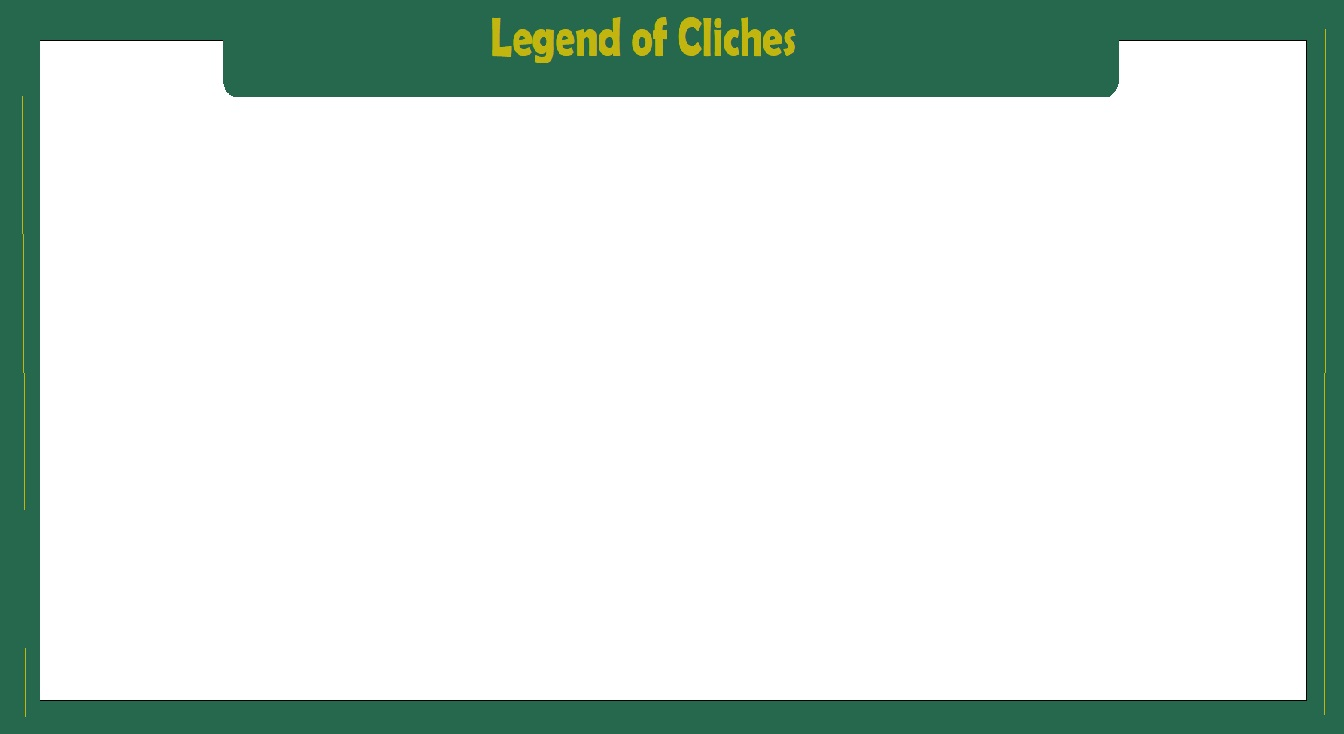
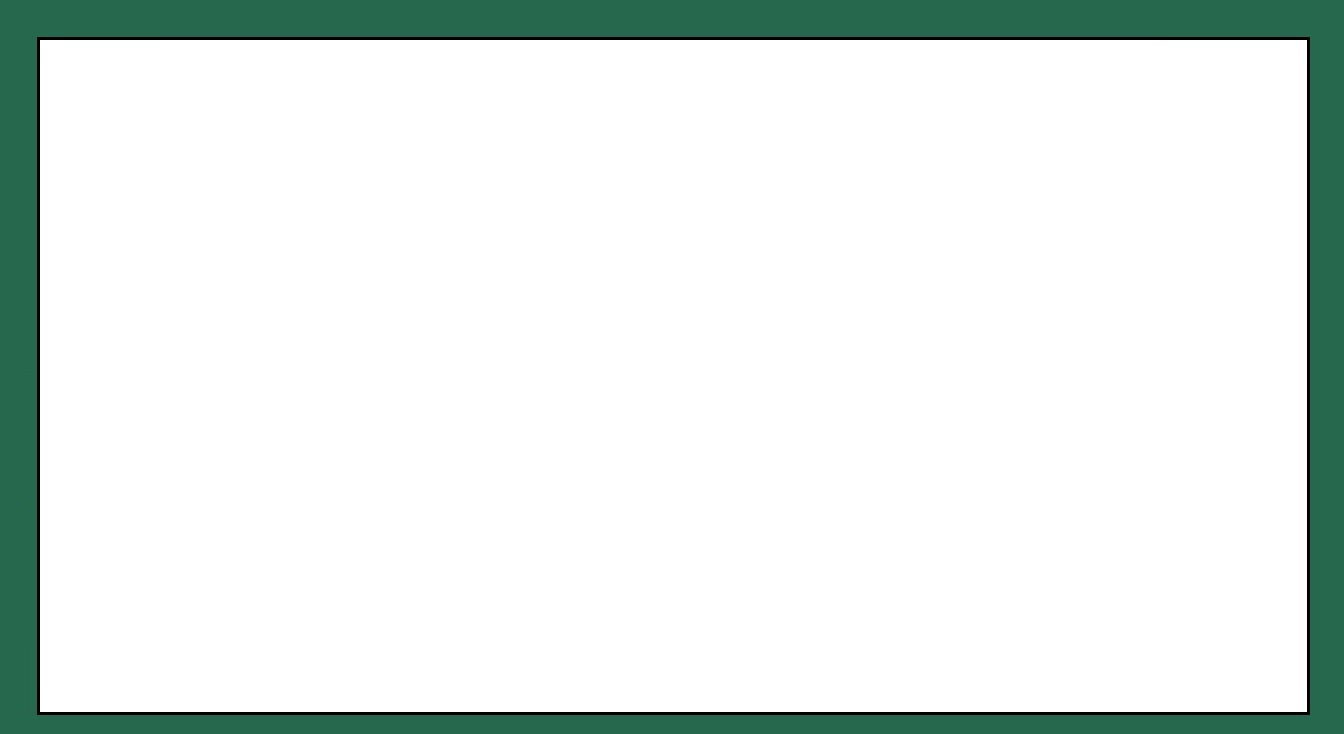
Backend added, Class Selection Process begna for when New Journey is chosen from the Welcome Menu

Changed region(s): [[0.0312, 0.0, 0.9688, 0.1499], [0.0, 0.0599, 1.0, 0.9891], [0.0, 0.1199, 0.0312, 0.6894]]

diff --git a/src/reducers/functional_reducer.js b/src/reducers/functional_reducer.js
@@ -4,8 +4,10 @@ export default function manageFunctions(state ={
 
     inWelcome: true,            // True at first. This is what tells App to render the Welcome.js component
     inLogin: false,             // True if "Resume Journey" is selected from the Welcome.js component 
+    inNew: false,               // True if "New Story" is selected from the Welcome.js component
 
     inGame: false,              // True if a new game is started or a journey is resumed
+    isLoading: false,           // True if the game is currently loading
 
     inGrid: false,              // True if the player is in the game world, not in a fight, inventory, map, or other view
     inMap: false,               // True if the user selected their map
@@ -16,14 +18,19 @@ export default function manageFunctions(state ={
 action){
     switch(action.type){
 
-        // THIS CASE ALSO EXISTS INSIDE OF THE PLAYER REDUCER
-        // {action: "START_NEW_GAME", payload: {player_id: xxxxxx, player: {<object with all player details>}
-        case("START_NEW_GAME") :
-            return {...state, inWelcome: false, inGame: true, player_id: action.payload.player_id}
+        // {type: "LOADING"}
+        case("LOADING"):
+            return {...state, inWelcome: false, inLogin: false, inNew: false, inGame: false, isLoading: true}
 
         // THIS CASE ALSO EXISTS INSIDE OF THE PLAYER REDUCER
-        // {action: "START_NEW_GAME", payload: {player_id: xxxxxx, player: {<object with all player details>}
-        case("LOGIN_TO_GAME")
+        // {type: "START_NEW_GAME", payload: {player_id: xxxxxx, character_selected}
+        case("START_NEW_GAME"):
+            return {...state, inWelcome: false, inNew: true, player_id: action.payload.player_id}
+
+        // THIS CASE ALSO EXISTS INSIDE OF THE PLAYER REDUCER
+        // {type: "START_NEW_GAME", payload: {player_id: xxxxxx, player: {<object with all player details>}
+        case("LOGIN_TO_GAME"):
+            return {...state, inWelcome: false, inGame: true, player_id: action.payload.player_id}
 
 
         default:

diff --git a/src/components/AppJsSplitters/NewGame/ClassCard.js b/src/components/AppJsSplitters/NewGame/ClassCard.js
@@ -1,0 +1,54 @@
+import { connect } from 'react-redux';
+import React, {Component} from 'react';
+import getImage from '../../../helpers/image_helpers/getImage'
+
+
+class ClassCard extends Component {
+
+    constructor(){
+        super()
+        this.setState({
+            upperCardSetting: "Image",      // This will either be set to Image or Stats and will dictate what upperCardRender will return
+        })
+    }
+
+    flipCard = () => {
+        let newWord = "Error"
+        if (this.state.upperCardSetting == "Image"){
+            newWord = "Stats"
+        }
+        else if (this.state.upperCardSetting == "Stats"){
+            newWord = "Image"
+        }
+        this.setState({
+            ...this.state, upperCardSetting: newWord
+        })
+    }
+
+    renderUpperCard = () => {
+        if (this.state.upperCardSetting == "Image"){
+            return(
+                <div id="ClassCardImage">
+                    {/* this will be an image name recieved from the props. This will then be inputted into an Image helper */}
+                    {/* use a getImage value to insert here */}
+                </div>
+            )
+        }
+    }
+
+    render(){
+        return(
+            <div className="Class_Card">
+                {/* This is the top 70% of the card. It will be an image with a name, and when clicked will rotate toa bio and default stats */}
+                <div className="Class_Card_Upper" id="ClassCardImage">
+                    {this.renderUpperCard()}
+                </div>
+                {/* This will be a selection button */}
+                <div className="Class_Card_Bottom">
+
+                </div>
+            </div>
+        )
+    }
+
+}

diff --git a/src/components/AppJsSplitters/Welcome_Or_Login_Or_Game.js b/src/components/AppJsSplitters/Welcome_Or_Login_Or_Game.js
@@ -6,17 +6,44 @@ import GameWindow from '../MainScreen/GameWindow';
 
 
 const mapStateToProps = (state) => {
-
-}
-const mapDispatchToProps = (dispatch) => {
+    return({
+        functions: state.functions
+    })
 
 }
 
 class WelcomeOrLoginOrGame extends Component{
 
+    determineScreen = (props) => {
+        if (props.functions.inWelcome){
+            return (
+                <div>
+                    <Welcome />
+                </div>
+            )
+        }
+        else if (props.functions.inLogin){
+            <div>
+                <Login />
+            </div>
+        }
+        else if (props.functions.inGame){
+            <div>
+                <GameWindow />
+            </div>
+        }
+    }
+
+    render(){
+        return(
+            <div className="Welcome_Or_Login_Or_Game_Window">
+                {console.log("inside of Welcome_Or_Login_Or_Game, the current props are" + this.props)}
+                {this.determineScreen(this.props)}
+            </div>
+        )
+    }
 }
 
 export default connect(
-    mapStateToProps,
-    mapDispatchToProps
+    mapStateToProps
 )(WelcomeOrLoginOrGame)

diff --git a/src/components/AppJsSplitters/Welcome.js b/src/components/AppJsSplitters/Welcome.js
@@ -1,15 +1,39 @@
 import { connect } from 'react-redux';
 import React, {Component} from 'react';
+import './css/Welcome.css'
 
 const mapStateToProps = (state) => {
 
 }
 const mapDispatchToProps = (dispatch) => {
-
+    
 }
 
 class Welcome extends Component{
 
+    startNewGame = () => {
+
+    }
+
+    render(){
+        return(
+            <div className="Welcome_Screen">
+                <div id="WelcomeBackground"></div>
+                <h1 id="WelcomeBanner">Welcome to <div id="BigOlText">Legend of Cliches </div></h1>
+                <div className="Welcome_Menu">
+                    <div className="Welcome_Option" id="New">
+                         - New Story -
+                    </div>
+                    <div className="Welcome_Option" id="Load">
+                         - Resume Journey -
+                    </div>
+                    <div className="Welcome_Option" id="Info">
+                         - About -
+                    </div>
+                </div>
+            </div>
+        )
+    }
 }
 
 export default connect(

diff --git a/src/components/AppJsSplitters/css/Welcome.css b/src/components/AppJsSplitters/css/Welcome.css
@@ -1,0 +1,50 @@
+.Welcome_Screen{
+    position: absolute;
+    top: 5%;
+    left: 2%;
+    width: 96%;
+    height: 90%
+}
+
+.Welcome_Menu{
+    position: absolute;
+    width: 20%;
+    left: 30%;
+    height: 44%;
+    top: 30%;
+    background-color: cadetblue;
+}
+
+.Welcome_Option{
+    border-color: goldenrod;
+    color: darkgoldenrod;
+    background-color: darkslategrey;
+    border-style: ridge;
+    border-width: 3px;
+    padding: 6px;
+    padding-bottom: 10px;
+    font-size: 20pt;
+    text-align: center;
+    margin-top: 14%;
+    margin-left: 10%;
+    margin-right: 10%;
+    align-self: center;
+}
+
+
+
+#WelcomeBanner{
+    position: absolute;
+    border-style: groove;
+    padding: 1%;
+    border-width: 7px;
+    border-color: goldenrod;
+    top: 0%;
+    left: 2%;
+}
+
+#BigOlText{
+    font-size: 36pt;
+    font-family: Impact, Haettenschweiler, 'Arial Narrow Bold', sans-serif;
+    color: darkgoldenrod
+}

diff --git a/src/App.js b/src/App.js
@@ -1,6 +1,9 @@
 import './App.css';
 import { connect } from 'react-redux';
 import React, {Component} from 'react';
+import mainHUD from './images/main_screen/Main_Backdrop.jpg'
+
+import Welcome_Or_Login_Or_Game from './components/AppJsSplitters/Welcome_Or_Login_Or_Game';
 
 // MAP FUNCTIONS BELOW-----------------------------------------------------------------
 
@@ -21,6 +24,8 @@ class App extends Component{
   render(){
     return(
       <div className="Main_App_Window">
+        <img src={mainHUD} id="MainHUD"/>
+        <Welcome_Or_Login_Or_Game />
       </div>
     )
   }

diff --git a/src/reducers/master_reducer.js b/src/reducers/master_reducer.js
@@ -1,8 +1,10 @@
 import { combineReducers } from 'redux'
+import manageFunctions from './functional_reducer'
 import manageForestMap from "./maps_reducers/forest_map_reducer"
 import manageDesertMap from "./maps_reducers/desert_map"
 
 const masterReducer = combineReducers({
+    functions: manageFunctions,
     forest_world: manageForestMap
  //   desert_world: manageDesertMap
 })

diff --git a/src/helpers/image_helpers/getImage.js b/src/helpers/image_helpers/getImage.js
@@ -4,6 +4,9 @@ import ForestImages from "./getForestImages";
 let forest = new ForestImages()
 
 export const allImages = {
+    classSelection: {
+        mageCardImage: 
+    },
     forest: {
         pathways: {
             fork: forest.fork_path(),
@@ -35,6 +38,5 @@ export const allImages = {
         }
     },
     towns: {
-
     },
 }

diff --git a/src/App.css b/src/App.css
@@ -1,7 +1,4 @@
 .Main_App_Window{
-    position: absolute;
-    background-image: url(./images/main_screen/Main_Backdrop.jpg);
-    background-repeat: no-repeat;
     width: 100%;
     height: 100%;
 }

diff --git a/src/dispatch_actions/newGameDispatch.js b/src/dispatch_actions/newGameDispatch.js
@@ -1,0 +1,7 @@
+export default function(){
+    return (dispatch) => {
+        dispatch({type: "LOADING"})
+        // fetch action
+        dispatch 
+    }
+}

diff --git a/src/components/AppJsSplitters/NewGame/ClassSelection.js b/src/components/AppJsSplitters/NewGame/ClassSelection.js
@@ -1,0 +1,2 @@
+import { connect } from 'react-redux';
+import React, {Component} from 'react';

diff --git a/public/index.html b/public/index.html
@@ -1,4 +1,6 @@
 <!DOCTYPE html>
+
+
 <html lang="en">
   <head>
     <meta charset="utf-8" />
